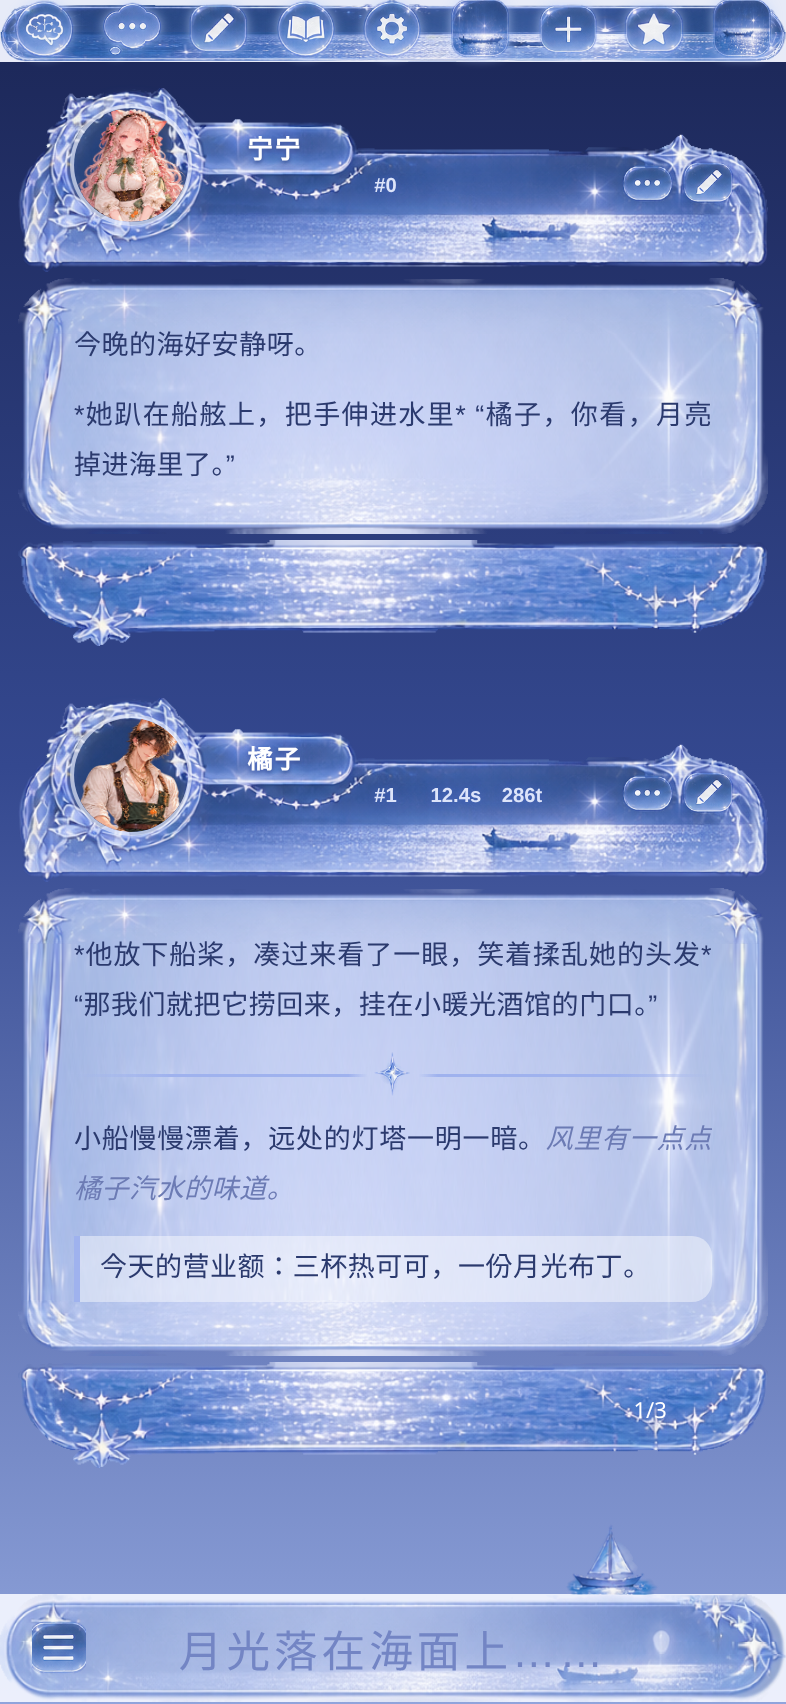
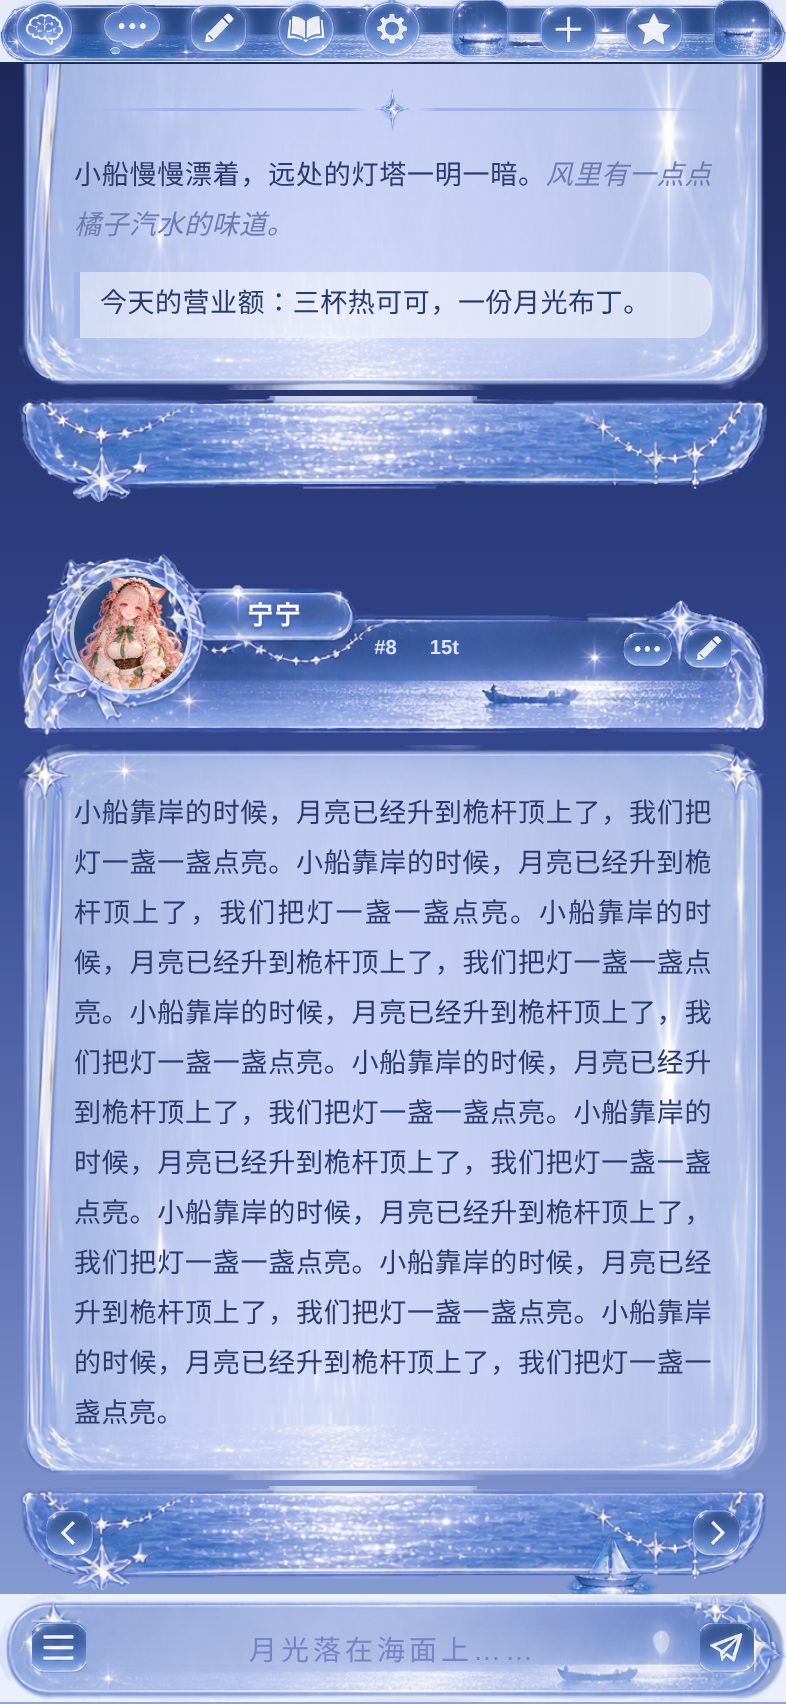
fix(theme): 月光海 长消息被压扁、上中下三段错位
聊天区是竖向 flex，消息多时气泡被压缩到 min-height，正文溢出叠在一起。
同时把楼层号/计时/字数改成一行排列，并加上 iOS 客户端的 contain 兼容。

Claude-Session: https://claude.ai/code/session_01DBiGjLdVpenBf2hdyH2dq2

diff --git a/theme/moonsea/src/theme.css b/theme/moonsea/src/theme.css
@@ -9,7 +9,7 @@
 :root {
     --输入框文字: "月光落在海面上……";
     --加载更多文字: "";
-    --气泡宽: min(96cqw, 600px);    /* 气泡宽度，手机端约等于全屏 */
+    --气泡宽: min(96vw, 600px);     /* 气泡宽度，手机端约等于全屏 */
     --楼层间距: 26px;               /* 两条消息之间的空隙 */
     --拼接缝: 3px;                   /* 头部/正文/尾部三张卡片之间的缝 */
     --正文字色: #2b3a6e;
@@ -23,6 +23,11 @@
     /* 以下由宽度自动换算，一般不用动 */
     --头高: calc(var(--气泡宽) * 0.2459);
     --尾高: calc(var(--气泡宽) * 0.1407);
+}
+
+/* 支持容器单位的浏览器按聊天区宽度算，电脑端宽屏也不会撑爆 */
+@supports (width: 1cqw) {
+    :root { --气泡宽: min(96cqw, 600px); }
 }
 
 body {
@@ -47,6 +52,7 @@ body {
     margin: calc(var(--头高) + var(--拼接缝) + var(--楼层间距)) auto calc(var(--尾高) + var(--拼接缝)) !important;
     padding: calc(var(--气泡宽) * 0.06) calc(var(--气泡宽) * 0.075) calc(var(--气泡宽) * 0.055) !important;
     min-height: calc(var(--气泡宽) * 0.2);
+    flex: 0 0 auto !important;      /* 聊天区是竖向 flex，消息多时不许被压扁 */
     position: relative;
     overflow: visible !important;
     background: none !important;
@@ -60,6 +66,26 @@ body {
     color: var(--正文字色);
 }
 #chat .mes:first-of-type { margin-top: calc(var(--头高) + var(--拼接缝) + 12px) !important; }
+
+/* 兼容修正：TauriTavern / 部分 iOS 客户端会给每条消息加尺寸约束（contain），
+   消息高度就不再跟着文字长，正文会溢出、几层叠在一起。这里统一解除 */
+#chat > .mes,
+#chat > .mes:not(.last_mes),
+#chat > .mes.last_mes {
+    content-visibility: visible !important;
+    contain-intrinsic-block-size: none !important;
+    contain-intrinsic-size: none !important;
+    contain: none !important;
+    height: auto !important;
+    max-height: none !important;
+}
+#chat .mes .mes_block,
+#chat .mes .mes_text {
+    height: auto !important;
+    max-height: none !important;
+    contain: none !important;
+}
+#chat .last_mes .mesAvatarWrapper { padding-bottom: 0 !important; }
 
 /* 头部卡片（头像圈 + 名字牌 + 夜海） */
 #chat .mes::before,
@@ -93,8 +119,14 @@ body {
     width: 100%;
     height: var(--头高);
     margin: 0 !important;
-    padding: 0 !important;
-    display: block !important;
+    /* 楼层号/计时/字数排成一行，数字再长也不会叠在一起 */
+    padding: calc(var(--头高) * 0.47) 0 0 47.5% !important;
+    box-sizing: border-box;
+    display: flex !important;
+    flex-direction: row !important;
+    align-items: flex-start !important;
+    justify-content: flex-start !important;
+    gap: calc(var(--气泡宽) * 0.022);
     pointer-events: none;
     z-index: 2;
 }
@@ -124,8 +156,9 @@ body {
 #chat .mes .mesIDDisplay,
 #chat .mes .mes_timer,
 #chat .mes .tokenCounterDisplay {
-    position: absolute !important;
-    top: 49%;
+    position: static !important;
+    flex: none;
+    width: auto !important;
     margin: 0 !important;
     padding: 0 !important;
     font-size: calc(var(--气泡宽) * 0.027) !important;
@@ -135,9 +168,6 @@ body {
     white-space: nowrap;
     text-shadow: 0 0 4px rgba(70, 100, 200, .9);
 }
-#chat .mes .mesIDDisplay { left: 47.5%; }
-#chat .mes .mes_timer { left: 55%; }
-#chat .mes .tokenCounterDisplay { left: 64.5%; }
 
 /* ---------- 名字：放进名字牌 ---------- */
 #chat .mes .mes_block {
